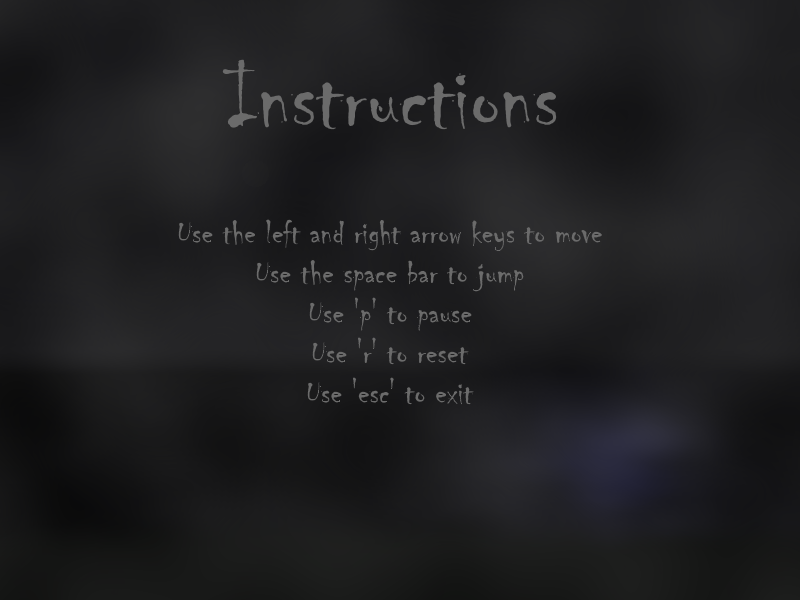
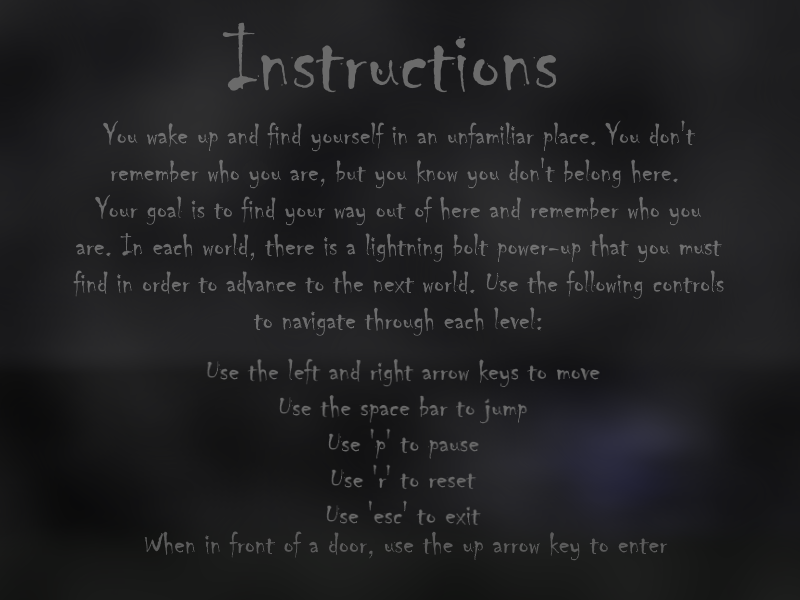
Final version

diff --git a/src/com/brackeen/javagamebook/tilegame/GameManager.java b/src/com/brackeen/javagamebook/tilegame/GameManager.java
@@ -172,7 +172,12 @@ public class GameManager extends GameCore {
 			return;
 		}
 		// get keyboard/mouse input
-		checkInput(elapsedTime);
+		if(!renderer.getRealCutscene()){
+            checkInput(elapsedTime);
+        }
+        if(renderer.getRealCutscene()){
+            inputManager.resetAllGameActions();
+        }
 		if (state == STATE.GAME && !paused) {
 			updateWorld(player);
 			updatePlayer(player, elapsedTime);
@@ -183,6 +188,7 @@ public class GameManager extends GameCore {
 				Sprite sprite = (Sprite)i.next();
 				sprite.update(elapsedTime);
 			}
+			
 		}
 	}
 
@@ -205,6 +211,14 @@ public class GameManager extends GameCore {
 			renderer.draw(g, blankMap,
 					screen.getWidth(), screen.getHeight(), false);
 		}
+		else if (state == STATE.NOTHING) {
+            renderer.setBackground(null);
+            renderer.draw(g, blankMap,
+                    screen.getWidth(), screen.getHeight(), false);
+            if(renderer.getRealCutscene()){
+                state=STATE.MENU;
+            }
+        }
 	}
 
 	/**
@@ -443,10 +457,11 @@ public class GameManager extends GameCore {
 	private GameAction stopMusic;
 	private GameAction help;
 	private TileMap blankMap;
-	private STATE state = STATE.MENU;
+	private STATE state = STATE.NOTHING;
 	private enum STATE {
 		GAME,
 		MENU,
-		INSTRUCTION
+		INSTRUCTION,
+		NOTHING
 	};
 }

diff --git a/src/com/brackeen/javagamebook/tilegame/TileMapRenderer.java b/src/com/brackeen/javagamebook/tilegame/TileMapRenderer.java
@@ -113,9 +113,10 @@ public class TileMapRenderer {
 
 		
 		long currentTime = System.currentTimeMillis();
-        if((currentTime-eTime1)<timesToRun[index]){
+		if(getCutScene(currentTime)){
             drawGif(g, screenWidth, screenHeight);
         }else{
+
 		 
 		
 			//All code for drawing sprites, tiles and player surrounded in else statement so not drawn over gif while gif being displayed
@@ -194,6 +195,22 @@ public class TileMapRenderer {
     private void drawGif(Graphics2D g, int screenWidth, int screenHeight){
         g.drawImage(icon, 0, 0, screenWidth, screenHeight, null);
     }
+    
+    public boolean getCutScene(long currentTime){
+        if((currentTime-eTime1)<timesToRun[index]){
+            this.cutScene=true;
+        }else{
+            this.cutScene=false;
+        }
+        return cutScene;
+    }
+    
+    public boolean getRealCutscene(){
+        return cutScene;
+    }
+
+
+
 
 	 
 
@@ -204,4 +221,5 @@ public class TileMapRenderer {
     private int index;
     private int[] timesToRun = {11300, 8458, 7924, 11500};
     private Image icon;
+    private boolean cutScene =false;
 }
